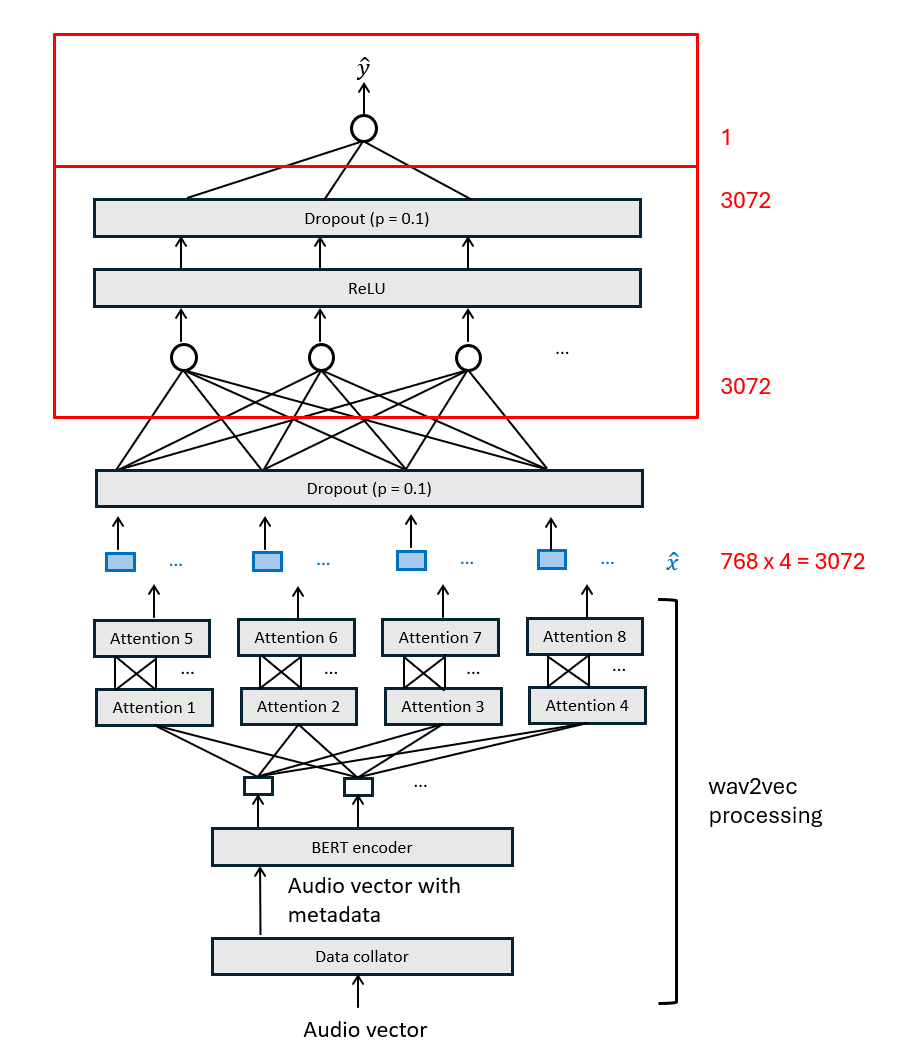
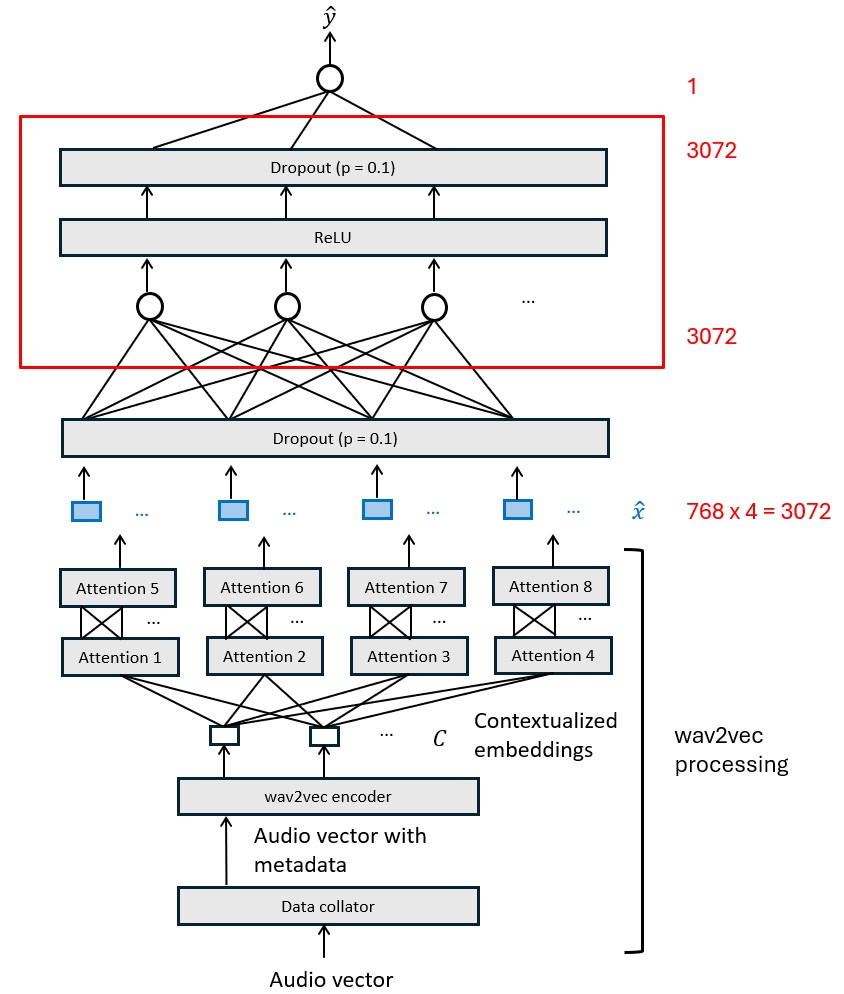
update content about graders

Changed region(s): [[0.0, 0.0, 0.9242, 0.998], [0.8009, 0.499, 0.9858, 0.5614]]

diff --git a/pages/appendix.tex b/pages/appendix.tex
@@ -1,5 +1,94 @@
-\chapter{Title of Appendix A}
-Content of Appendix A.
+\chapter{Auto Marker Feature}
+
+\begin{table}[H]
+    \centering
+    \begin{tabular}{|c|l|l|}
+        \hline
+        \textbf{No.} & \textbf{Item}                            & \textbf{Statistics}                    \\
+        \hline
+        1            & \multirow{4}{*}{Words}                   & frequency                              \\
+        2            &                                          & mean duration                          \\
+        3            &                                          & number                                 \\
+        4            &                                          & number of unique                       \\
+        \hline
+        5            & \multirow{4}{*}{Phone/Grapheme Duration} & mean                                   \\
+        6            &                                          & standard deviation                     \\
+        7            &                                          & median                                 \\
+        8            &                                          & mean absolute deviation                \\
+        \hline
+        9            & Time Used                                & fraction                               \\
+        \hline
+        10           & Syllables                                & articulation rate                      \\
+        \hline
+        11           & \multirow{4}{*}{Silence Duration}        & mean                                   \\
+        12           &                                          & standard deviation                     \\
+        13           &                                          & median                                 \\
+        14           &                                          & mean absolute deviation                \\
+        \hline
+        15           & Long Silences                            & number                                 \\
+        \hline
+        16           & \multirow{4}{*}{Long Silence Duration}   & mean                                   \\
+        17           &                                          & standard deviation                     \\
+        18           &                                          & median                                 \\
+        19           &                                          & mean absolute deviation                \\
+        \hline
+        20           & \multirow{3}{*}{Disfluencies}            & number all                             \\
+        21           &                                          & fraction all                           \\
+        22           &                                          & number partial words                   \\
+        \hline
+        23           & \multirow{2}{*}{Hesitations}             & number                                 \\
+        24           &                                          & fraction                               \\
+        \hline
+        25           & \multirow{5}{*}{Language Model Score}    & normalised A1 GDLM perplexity          \\
+        26           &                                          & normalised A2 GDLM perplexity          \\
+        27           &                                          & normalised B1 GDLM perplexity          \\
+        28           &                                          & normalised B2 GDLM perplexity          \\
+        29           &                                          & normalised C GDLM perplexity           \\
+        \hline
+        30           & \multirow{2}{*}{Confidence}              & average frame confidence all           \\
+        31           &                                          & av. frame confidence excl. hesitations \\
+        \hline
+        32--356      & Phone Distance Features                  & log(1+KL divergence) per phone pair    \\
+        \hline
+    \end{tabular}
+    \caption{Feature-based model feature set. Source: \cite{feature}}
+    \label{tab:feature_full}
+\end{table}
+
+\begin{table}[H]
+    \centering
+    \renewcommand{\arraystretch}{1.3}
+    \begin{tabular}{|>{\raggedright\arraybackslash}p{4cm}|>{\raggedright\arraybackslash}p{10cm}|}
+        \hline
+        \textbf{Item}               & \textbf{Definition}                                                                                                                                                                                                                  \\
+        \hline
+        Silence Duration            & all segments recognised as silence                                                                                                                                                                                                   \\
+        \hline
+        Long Silence Duration       & within word silence segments > 0.25s in length (does not include start/end silence)                                                                                                                                                  \\
+        \hline
+        Phone/Grapheme Duration     & all CV segments not recognised as silence                                                                                                                                                                                            \\
+        \hline
+        Word Duration               & all word segments not recognised as silence                                                                                                                                                                                          \\
+        \hline
+        Disfluencies                & all partial words, hesitations, long silences within words (> 0.25s), non-silence words repeated twice, non-silence words repeated with short pause between (HTK only)                                                               \\
+        \hline
+        Word Frequency              & speaking rate in terms of word frequency (number of words / speech duration) across all utterances where within speech silence included in duration                                                                                  \\
+        \hline
+        Syllables Articulation Rate & speaking/articulation rate in terms of (pseudo) syllable rate (number of vowels / speech duration) across all utterances where within speech silence not included in duration                                                        \\
+        \hline
+        Time Used                   & fraction: mean utterance duration / mean recording duration where utterance duration is the time from the start of the 1st non-silence segment to the end of the last, and recording duration is the total duration of the utterance \\
+        \hline
+        Language Model Score        & normalised perplexity (ppl) of recognised transcriptions measured using grade dependent (GD) and grade independent (GI) LMs. Score = log (GDLM ppl/GILM ppl)                                                                         \\
+        \hline
+        Confidence                  & average ASR confidence across a) all words and b) excluding hesitations                                                                                                                                                              \\
+        \hline
+        Phone Distance Features     & phone distance measure between each phone (grapheme) pair. Log(1+KL) distance metric                                                                                                                                                 \\
+        \hline
+    \end{tabular}
+    \caption{Definition of items in feature set (CV = consonant/vowel mapped phone or grapheme). Source: \cite{feature}}
+    \label{tab:feature_def}
+\end{table}
+
 
 \chapter{Title of Appendix B}
 Content of Appendix B.

diff --git a/chapters/grader.tex b/chapters/grader.tex
@@ -1,8 +1,6 @@
 \chapter{Spoken Language Assessment} \label{chap:graders}
 
-The three types of models under investigation are: text-based, feature-based, and audio-based models, which have different ways to process the input data to the intermediate vector $\hat{x}$ detailed in section
-
-Each grader has its own architecture, with different number of layers, neurons, activation functions, and dropout rates. The dropout rate is the proportion of neurons that are randomly set to zero during training, which helps prevent overfitting. Table \ref{activation functions} defines the types of activation functions under consideration, where $\alpha$ is a small constant ($<<1$) that allows a small gradient when the unit is not active.
+The three types of models under investigation are: text-based, feature-based, and audio-based models. Each grader has its own architecture, with different number of layers, neurons, activation functions, and dropout rates. The dropout rate is the proportion of neurons that are randomly set to zero during training, which helps prevent overfitting. Table \ref{activation functions} defines the types of activation functions under consideration, where $\alpha$ is a small constant ($<<1$) that allows a small gradient when the unit is not active.
 
 \begin{table}[H]
     \centering
@@ -37,16 +35,63 @@ The result would then be passed through linear calibration with the output resul
     \label{eq:calibration}
 \end{equation}
 
-\section{Text-based Model}
+Each grader also has its own way to process the input data to the intermediate vector $\hat{x}$. The following sections describe the architecture of each model in detail.
 
-Brief description of BERT taking in text, go through attention mechanism, generate attention.
+\section{Text-based Model}
+Figure \ref{fig:text} shows the architecture of the text-based model. The BERT processing begins with text transcript extracted by the speech recognizer from the candidate's audio. Each sample is fed through the BERT tokenizer \nomenclature[Z]{BERT}{Bidirectional Encoder Representations from Transformers}, which converts the text into a sequence of independent tokens ($\mathcal{T}$). $\mathcal{T}$ is then passed through the BERT encoder, creating contextualized embeddings for the tokens ($\mathcal{C}$), which takes into account the surrounding tokens. $\mathcal{C}$ is further passed through four independent attention mechanisms. Their outputs, each of 768-D, are concatenated to form the 3072-D token embeddings $\hat{x}$.
+
+The token embeddings $\hat{x}$ is then passed through a fully connected DNN with 2 hidden layers, using the ReLU activation function. Each layer is labelled with a red box, with the red number indicating the change in dimension after each layer. The output is a single scalar indicated the predicted score.
+
+\begin{figure}[H]
+    \centering
+    \includegraphics[width=0.7\textwidth]{text.png}
+    \caption{Text-based Model Architecture}
+    \label{fig:text}
+\end{figure}
 
 \section{Feature-based Model}
+Figure \ref{fig:feature} shows the architecture of the feature-based model. The speech data have been preprocessed to produce a 356-D vector. The features include statistics of: word level, phone duration, rhythm, fluency, and frequency \cite{graders}. The full list of features is detailed in Table \ref{tab:feature_full}, with the definition of the feature groups in Table \ref{tab:feature_def} in the appendix.
 
-\cite{feature}
+The feature vector $\hat{x}$ is then passed through a fully connected DDN with 3 hidden layers. LReLU with $\alpha = 0.01$ is used as the activation function, and the dropout rate is set to 0.5. The output includes both $\mu$ and $\log(\sigma)$ of the predicted score Gaussian distribution. Similarly, the red box and red number indicated the layers and the dimension change.
 
-Brief description of the feature vector - what they consist of (quote paper), how they are extracted from the audio.
+\begin{figure}[H]
+    \centering
+    \includegraphics[width=0.7\textwidth]{feature.png}
+    \caption{Feature-based Model Architecture}
+    \label{fig:feature}
+\end{figure}
 
 \section{Audio-based Model}
+Figure \ref{fig:audio} shows the architecture of the audio-based model. The wav2vec processing begins with the audio vector for each candidate. The data collator aggregates meta data (candidate number, attention masks), feeding vector to the wav2vec encoder, which creates contextualized embeddings for the tokens ($\mathcal{C}$). $\mathcal{C}$ is passed through two layers of 4 individual attention mechanisms. The output is concatenated to form the 3072-D token embeddings $\hat{x}$.
 
-Brief description of Wav2Vec taking in audio vector, go through attention mechanism, generate attention.
+The token embeddings $\hat{x}$ is then passed through a fully connected DNN with a hidden layer, using the ReLU activation function and a dropout rate of 0.1. The output is a single scalar indicating the predicted score. As above, the red box and red number indicate the layers and the dimension change.
+
+\begin{figure}[H]
+    \centering
+    \includegraphics[width=0.7\textwidth]{audio.png}
+    \caption{Audio-based Model Architecture}
+    \label{fig:audio}
+\end{figure}
+
+\section{Summary}
+This chapter describes the differences across the three types of models under investigation. Table \ref{tab:models} summarizes their key differences, including the input data, model type, activation function, dropout rate, and node numbers. Understanding these differences would be crucial for isolating factors that affect bias measurement.
+
+\begin{table}[H]
+    \centering
+    \begin{tabular}{|c|c|c|c|}
+        \hline
+                                     & \textbf{Text-based}                                 & \textbf{Feature-based} & \textbf{Audio-based} \\ \hline
+        \textbf{Intermediate Vector} & Text embeddings                                     & Feature vector         & Audio embeddings     \\ \hline
+        \textbf{Model Type}          & DNN                                                 & DDN                    & DNN                  \\ \hline
+        \textbf{Activation Function} & ReLU                                                & LReLU                  & ReLU                 \\ \hline
+        \textbf{Dropout} Rate        & /                                                   & 0.5                    & 0.1                  \\ \hline
+        \textbf{Node Numbers}        & $3072 \rightarrow 600 \rightarrow 20 \rightarrow 1$
+                                     & \makecell[l]{
+        $356 \rightarrow 185 \rightarrow$                                                                                                  \\
+            $185 \rightarrow 185 \rightarrow 2$
+        }
+                                     & $3072 \rightarrow 3072 \rightarrow 1$                                                               \\ \hline
+    \end{tabular}
+    \caption{Transposed Summary of Graders}
+    \label{tab:models}
+\end{table}

diff --git a/chapters/introduction.tex b/chapters/introduction.tex
@@ -3,19 +3,19 @@
 \section{Motivation}
 In recent years, English has been more commonly the preferred language of communications in many setting. The assessment of spoken English has therefore become increasingly important, especially in the context of education and employment opportunities. Traditionally, human examiners have been used to evaluate spoken English, but this approach is time-consuming and subjective. As a result, there has been a growing interest in developing automated systems for spoken language assessment.
 
-Multiple systems have been developed to examine the spoken language proficiency of candidates. Three commonly investigated systems are text-based, feature-based, and speech-based systems \cite{graders}. Each type of model has its own method of processing the input speech and generating the intermediate vector $\mathbf{\hat{x}}$ (Chapter \ref{chap:graders}), which encapsulates information about the speech. Vector $\mathbf{\hat{x}}$ is passed into different neural network graders to produce the final score. The scoring process within the neural network is hard to be interpreted, causing non-transparency in the grading process. Problems such as potential biases within the system may then go undetected.
+Multiple systems have been developed to examine the spoken language proficiency of candidates. Three commonly investigated systems are text-based, feature-based, and speech-based systems \cite{graders}. Figure \ref{fig:grader} shows that each type of model has its own method of processing the input speech and generating the intermediate vector $\mathbf{\hat{x}}$ (Chapter \ref{chap:graders}), which encapsulates information about the speech. Vector $\mathbf{\hat{x}}$ is passed into different neural network graders to produce the final score. The scoring process within the neural network is hard to be interpreted, causing non-transparency in the grading process. Problems such as potential biases within the system may then go undetected.
 
 \begin{figure}[H]
     \centering
     \includegraphics[width=0.7\textwidth]{grader.png}
     \caption{Spoken language assessment system for determining scores under consideration}
-    \label{grader}
+    \label{fig:grader}
 \end{figure}
 
 A grader is unbiased if it evaluates speech samples solely based on performance-related factors, such as vocabulary richness and fluency, without being influenced by irrelevant attributes like gender, age and first language. It is important to ensure that the grading process is fair for candidates of all background, as unfair evaluations could have serious consequences for candidates' academic and professional opportunities. However, biases have previously been detected in other language models. For example, as existing natural language processing (NLP) tool are mainly trained with standard American English, language identifier misclassifies more frequently when processing African-American English as other languages, leading to biased results \cite{bias}. It is reasonable to expect that similar biases may exist in the spoken language assessment systems, performing particularly poorly for specific groups of candidates. Hence, it is pivotal to develop rigorous methods to measure and mitigate bias in these systems.
 
 \section{Previous Work}
-Concept activation vector (CAV) \nomenclature[Z]{CAV}{Concept Activation Vector} has previously been used to measure bias in a feature-based deep density network (DDN) \nomenclature[Z]{DDN}{Deep Density Network} models \cite{feature_bias}. Features related to the audio (energy level) and fluency (silence duration, long silence duration, word number and frequency, phone duration) are extracted from the audio as the intermediate vector \cite{feature_vector_old}. The CAV is extracted from the neural network without using weighting. There are two methods for CAV to measure bias: gradient-based (Chapter \ref{chap:cav}) and feature-based distance. The previous work investigated both methods.
+Concept activation vector (CAV) \nomenclature[Z]{CAV}{Concept Activation Vector} has previously been used to measure bias in a feature-based deep density network (DDN) \nomenclature[Z]{DDN}{Deep Density Network} models \cite{feature_bias}. Features related to the audio (energy level) and fluency (silence duration, long silence duration, word number and frequency, phone duration) are extracted from the audio as the intermediate vector $\mathbf{\hat{x}}$ \cite{feature_vector_old}. The CAV is extracted from the neural network without using weighting. There are two methods for CAV to measure bias: gradient-based (Chapter \ref{chap:cav}) and feature-based distance. The previous work investigated both methods.
 
 % The experiment involves candidate data from the Use of Business English test (BULATS), which involves an initial short answer section, a read-aloud section, and three more general free speaking prompt-response answers. The scores were averaged over all sections to yield a score in the range 0 to 6.
 

diff --git a/thesis.tex b/thesis.tex
@@ -19,14 +19,38 @@
 \usepackage{multirow}
 \usepackage{makecell}
 \usepackage[colorlinks=true, linkcolor=blue, citecolor=blue, urlcolor=blue, linktoc=page]{hyperref}
+\usepackage{bookmark}
 \usepackage[intoc]{nomencl}
 \makenomenclature
 \renewcommand{\nomgroup}[1]{%
     \ifthenelse{\equal{#1}{A}}{\item[\textbf{Symbols}]}{}%
     \ifthenelse{\equal{#1}{Z}}{\item[\textbf{Acronym/Abbreviation}]}{}%
 }
-\doublespacing
+\onehalfspacing
 \graphicspath{{images/}}
+\usepackage{etoolbox}
+% Set single spacing for tables
+\AtBeginEnvironment{table}{\singlespacing}
+
+\makeatletter
+% Define a flag that turns on when \appendix is used
+\newif\ifinappendix
+\pretocmd{\appendix}{\inappendixtrue}{}{}
+\makeatother
+
+\usepackage{titlesec}
+% Custom chapter formatting
+\titleformat{\chapter}[display]
+  {\normalfont\huge\bfseries}
+  {\ifinappendix Appendix \thechapter \else \chaptername\ \thechapter \fi}
+  {20pt}
+  {
+    \vspace*{-20pt}
+    \ifinappendix\vspace*{30pt}\fi
+  }
+
+% Control spacing before/after chapter title block
+\titlespacing*{\chapter}{0pt}{-30pt}{20pt}
 
 \begin{document}
 
